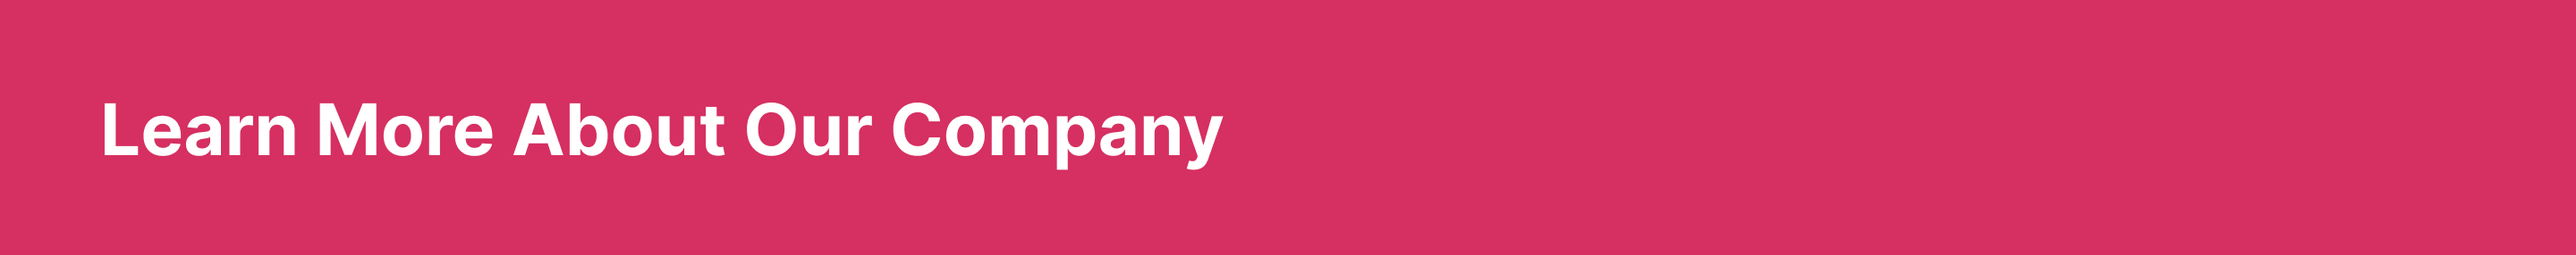
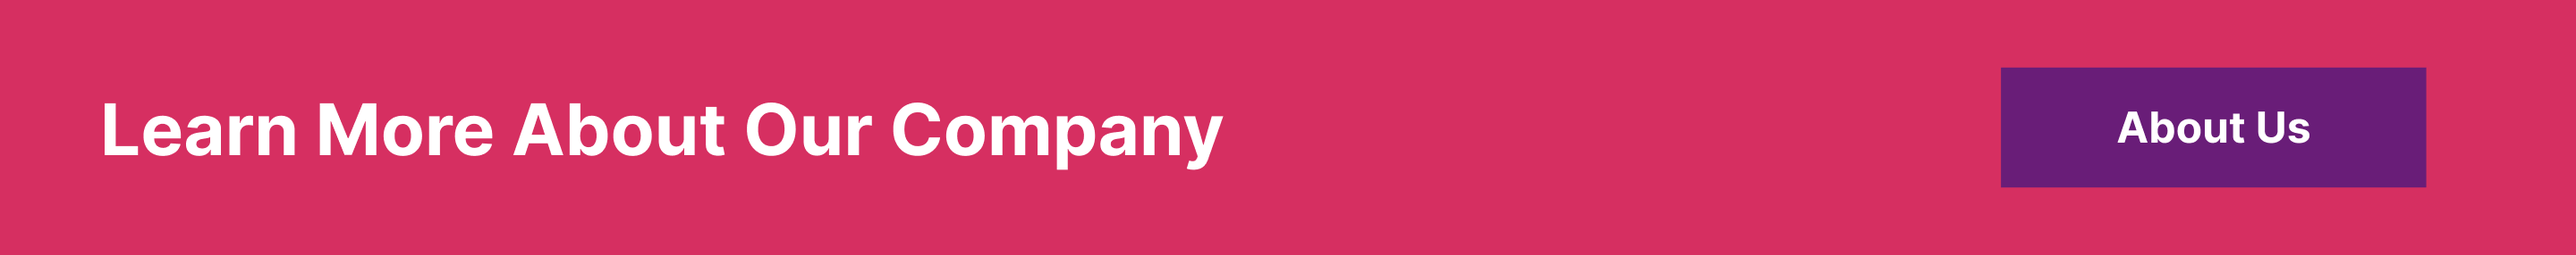
Edit 0.7

Changed region(s): [[0.75, 0.2517, 0.9688, 0.7552]]

diff --git a/about.html b/about.html
@@ -3,17 +3,23 @@
   <head>
     <meta charset="UTF-8">
     <meta name="viewport" content="width=device-width, initial-scale=1.0">
-    <title>About Page</title>
+    <title>Homepage</title>
     <link rel="stylesheet" href="screen.css">
   </head>
   <body>
-    <h1>About Page</h1>
-    <nav>
-      <ul>
-        <li><a href="index.html">Home</a></li>
-        <li><a href="about.html" class="active">About</a></li>
-      </ul>
-    </nav>
-    <script src="index.js"></script>
-  </body>
+  <h1 id="title">Dazzle Motion</h1>
+  <div class="logo">
+    <img src="Dazzle Motion Logo.png" alt="Dazzle Motion Logo">
+  </div>
+  <section class="Search">
+        <form action="#">
+          <input type="text" placeholder="Search what you need here"> <input type="button" value="Search">
+        </form>
+      </section>
+  <div class="homecoverpage" >
+    <img src="Home Screen Cover Image.png" alt="Home Cover Page">
+  </div>
+  
+  <script src="index.js"></script>
+</body>
 </html>

diff --git a/screen.css b/screen.css
@@ -9,7 +9,7 @@ body {
     background: var(--main-bg-color);
     margin: 0;
     font-family: 'Inter', sans-serif;
-    padding-bottom: 245px
+    padding-bottom: 0px
 }
 
 h1 {
@@ -130,14 +130,38 @@ h2 {
     top: -500px;
 }
 
-
 h3 {
+    color: #691D78;
+    padding: 10px;
+    font-size: 50px;
+    margin-top: 0px;
+    margin-bottom: 0px;
+    margin-left: 400px;
+    margin-right: 400px;
+    text-align: center;
+    max-width: 1000px;
+    position: relative;
+    bottom: 135px;
+}
+
+.new-grid  {
+    display: grid;
+    grid-template-columns: repeat(4, 1fr);
+    gap: 10px;
+    top: -90px;
+}
+
+.new-grid img {
+  width: 100%;
+  height: auto;
+}
+
+h4 {
     color: #353535;
     padding: 20px;
     margin: 0;
     font-size: 38px;
     margin-right: 40px;
-
 }
 
 p {
@@ -147,7 +171,6 @@ p {
     font-size: 30px;
     margin-right: 250px;
     line-height: 1.3;
-
 }
 
 div {

diff --git a/index.html b/index.html
@@ -31,7 +31,17 @@
     <img src="FP_Ballet.png" alt="Ballet">
   </div>
   <div class="PB1">
+    <a target="" href="about.html">
     <img src="Page Bar 1.png" alt="">
+    </a>
   </div>
-  </body>
+  <h3>NEW STYLES</h3>
+  <div class="new-grid">
+    <img src="NSCheer.png" alt="Cheer Cover">
+    <img src="NSPom.png" alt="Pom Cover">
+    <img src="NSColorG.png" alt="Colorguard Cover">
+    <img src="NSTryout.png" alt="Tryout Cover">
+  </div>
+    <script src="index.js"></script>
+</body>
 </html>
